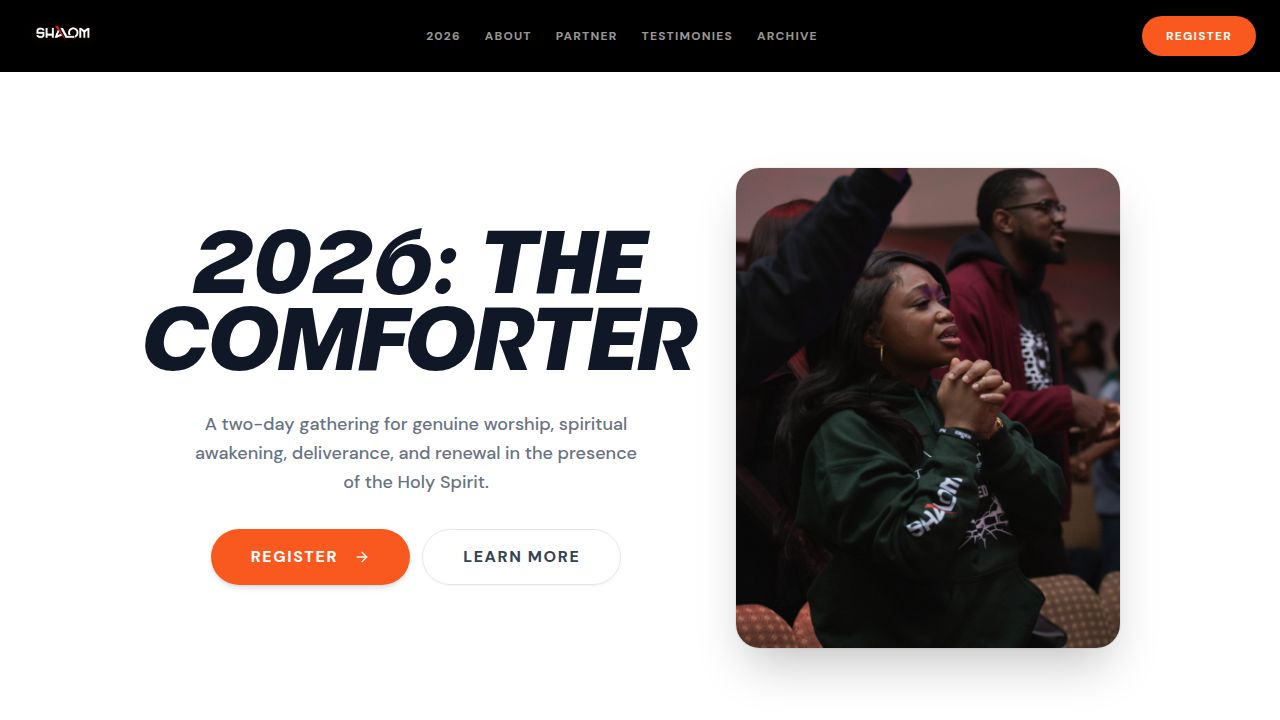
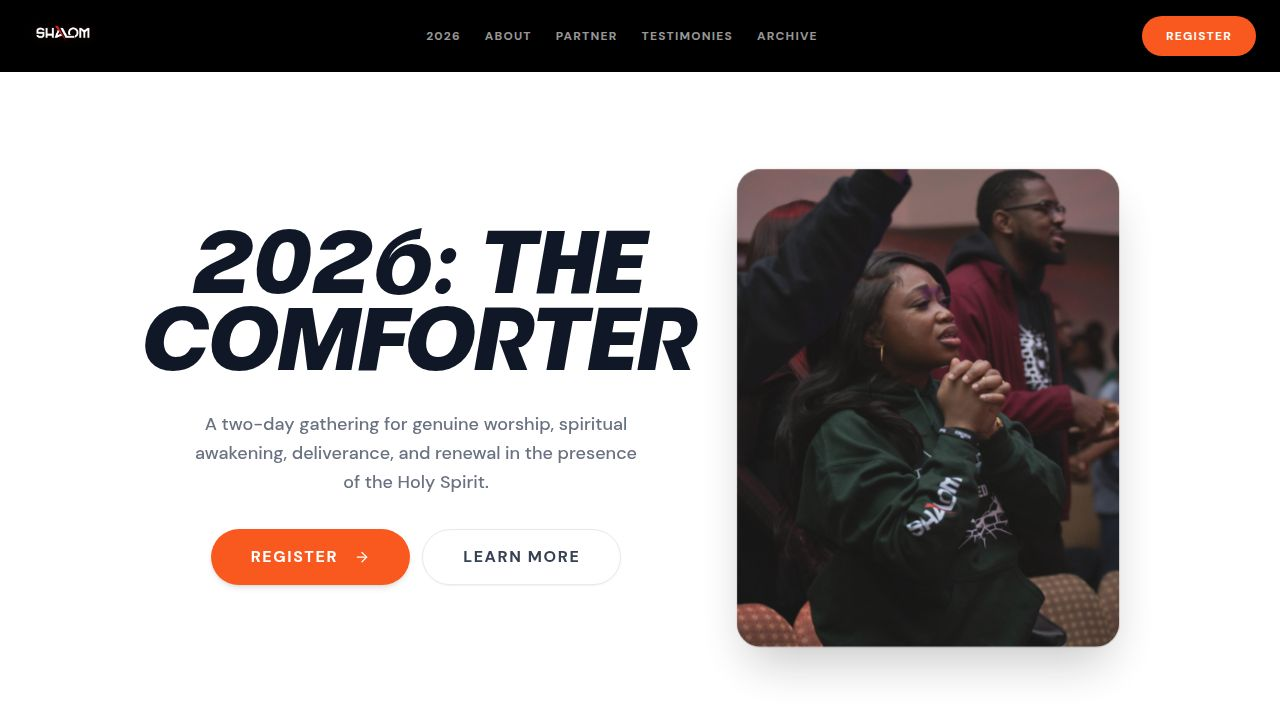
Standardize website header across all pages for a consistent user experience
Replaces custom header implementations with a shared `SiteHeader` component across multiple pages, including Home, About, Archive, ConferenceYear, Partner, Register, and Testimonies.

Replit-Commit-Author: Agent
Replit-Commit-Session-Id: 447dcef4-a52e-41ba-a06d-2a0f9991cb66
Replit-Commit-Checkpoint-Type: full_checkpoint
Replit-Commit-Event-Id: 1f464112-f09e-4851-9963-1d8e7e89b98e
Replit-Commit-Screenshot-Url: https://storage.googleapis.com/screenshot-production-us-central1/bf1a559b-73e7-45ad-958f-b963b2bfdcad/447dcef4-a52e-41ba-a06d-2a0f9991cb66/ZjSoagh
Replit-Helium-Checkpoint-Created: true

diff --git a/artifacts/shalom/src/components/SiteHeader.tsx b/artifacts/shalom/src/components/SiteHeader.tsx
@@ -1,0 +1,89 @@
+import { useState } from "react";
+import { Link, useLocation } from "wouter";
+import { motion, AnimatePresence } from "framer-motion";
+import { Menu, X } from "lucide-react";
+import { Button } from "@/components/ui/button";
+import shalomLogo from "@assets/logo_1778697155106.png";
+
+const NAV_LINKS = [
+  { label: "2026", href: "/2026" },
+  { label: "About", href: "/about" },
+  { label: "Partner", href: "/partner" },
+  { label: "Testimonies", href: "/testimonies" },
+  { label: "Archive", href: "/archive" },
+];
+
+export default function SiteHeader() {
+  const [menuOpen, setMenuOpen] = useState(false);
+  const [location] = useLocation();
+
+  return (
+    <header className="sticky top-0 z-50 bg-black">
+      <nav className="container mx-auto flex max-w-7xl items-center justify-between px-4 py-4 sm:px-6">
+        <Link href="/" className="flex items-center gap-3">
+          <img src={shalomLogo} alt="SHALOM" className="h-9 w-auto object-contain" />
+        </Link>
+
+        {/* Desktop nav */}
+        <div className="hidden sm:flex items-center gap-6 text-xs font-bold uppercase tracking-widest">
+          {NAV_LINKS.map((l) => (
+            <Link
+              key={l.href}
+              href={l.href}
+              className={`transition-colors ${location === l.href ? "text-primary" : "text-white/60 hover:text-primary"}`}
+            >
+              {l.label}
+            </Link>
+          ))}
+        </div>
+
+        <div className="flex items-center gap-3">
+          <Button
+            asChild
+            size="sm"
+            className="rounded-full bg-primary hover:bg-primary/90 text-white font-bold uppercase tracking-widest border-none px-6 h-10"
+          >
+            <Link href="/register">Register</Link>
+          </Button>
+
+          {/* Hamburger — mobile only */}
+          <button
+            className="sm:hidden flex items-center justify-center h-10 w-10 rounded-full text-white hover:bg-white/10 transition-colors"
+            onClick={() => setMenuOpen((v) => !v)}
+            aria-label="Toggle menu"
+          >
+            {menuOpen ? <X className="h-5 w-5" /> : <Menu className="h-5 w-5" />}
+          </button>
+        </div>
+      </nav>
+
+      {/* Mobile dropdown */}
+      <AnimatePresence>
+        {menuOpen && (
+          <motion.div
+            initial={{ opacity: 0, height: 0 }}
+            animate={{ opacity: 1, height: "auto" }}
+            exit={{ opacity: 0, height: 0 }}
+            transition={{ duration: 0.2 }}
+            className="sm:hidden overflow-hidden border-t border-white/10"
+          >
+            <div className="flex flex-col px-4 py-3 gap-1">
+              {NAV_LINKS.map((l) => (
+                <Link
+                  key={l.href}
+                  href={l.href}
+                  onClick={() => setMenuOpen(false)}
+                  className={`text-sm font-bold uppercase tracking-widest py-3 border-b border-white/5 last:border-0 transition-colors ${
+                    location === l.href ? "text-primary" : "text-white/60 hover:text-primary"
+                  }`}
+                >
+                  {l.label}
+                </Link>
+              ))}
+            </div>
+          </motion.div>
+        )}
+      </AnimatePresence>
+    </header>
+  );
+}

diff --git a/artifacts/shalom/src/pages/home.tsx b/artifacts/shalom/src/pages/home.tsx
@@ -1,19 +1,11 @@
-import { useState } from "react";
-import { Link, useLocation } from "wouter";
-import shalomLogo from "@assets/logo_1778697155106.png";
-import { motion, AnimatePresence } from "framer-motion";
+import { Link } from "wouter";
+import { motion } from "framer-motion";
 import { Button } from "@/components/ui/button";
-import { ArrowRight, Mail, MessageSquare, Menu, X } from "lucide-react";
+import { ArrowRight, Mail, MessageSquare } from "lucide-react";
 import { SiInstagram } from "react-icons/si";
 import { currentConference } from "@/data/conferences";
-
-const NAV_LINKS = [
-  { label: "2026", href: "/2026" },
-  { label: "About", href: "/about" },
-  { label: "Partner", href: "/partner" },
-  { label: "Testimonies", href: "/testimonies" },
-  { label: "Archive", href: "/archive" },
-];
+import SiteHeader from "@/components/SiteHeader";
+import shalomLogo from "@assets/logo_1778697155106.png";
 
 const FadeIn = ({ children, delay = 0, className = "" }: { children: React.ReactNode; delay?: number; className?: string }) => (
   <motion.div
@@ -28,66 +20,9 @@ const FadeIn = ({ children, delay = 0, className = "" }: { children: React.React
 );
 
 export default function Home() {
-  const [menuOpen, setMenuOpen] = useState(false);
-
   return (
     <div className="min-h-screen text-gray-900 bg-white">
-
-      {/* STICKY HEADER */}
-      <header className="sticky top-0 z-50 bg-black">
-        <nav className="container mx-auto flex max-w-7xl items-center justify-between px-4 py-4 sm:px-6">
-          <Link href="/" className="flex items-center gap-3">
-            <img src={shalomLogo} alt="SHALOM" className="h-9 w-auto object-contain" />
-          </Link>
-
-          {/* Desktop nav */}
-          <div className="hidden sm:flex items-center gap-6 text-xs font-bold uppercase tracking-widest text-white/60">
-            {NAV_LINKS.map((l) => (
-              <Link key={l.href} href={l.href} className="hover:text-primary transition-colors">{l.label}</Link>
-            ))}
-          </div>
-
-          <div className="flex items-center gap-3">
-            <Button asChild size="sm" className="rounded-full bg-primary hover:bg-primary/90 text-white font-bold uppercase tracking-widest border-none px-6 h-10">
-              <Link href="/register">Register</Link>
-            </Button>
-            {/* Hamburger — mobile only */}
-            <button
-              className="sm:hidden flex items-center justify-center h-10 w-10 rounded-full text-white hover:bg-white/10 transition-colors"
-              onClick={() => setMenuOpen((v) => !v)}
-              aria-label="Toggle menu"
-            >
-              {menuOpen ? <X className="h-5 w-5" /> : <Menu className="h-5 w-5" />}
-            </button>
-          </div>
-        </nav>
-
-        {/* Mobile dropdown */}
-        <AnimatePresence>
-          {menuOpen && (
-            <motion.div
-              initial={{ opacity: 0, height: 0 }}
-              animate={{ opacity: 1, height: "auto" }}
-              exit={{ opacity: 0, height: 0 }}
-              transition={{ duration: 0.2 }}
-              className="sm:hidden overflow-hidden border-t border-white/10"
-            >
-              <div className="flex flex-col px-4 py-3 gap-1">
-                {NAV_LINKS.map((l) => (
-                  <Link
-                    key={l.href}
-                    href={l.href}
-                    onClick={() => setMenuOpen(false)}
-                    className="text-sm font-bold uppercase tracking-widest text-white/60 hover:text-primary py-3 border-b border-white/5 last:border-0 transition-colors"
-                  >
-                    {l.label}
-                  </Link>
-                ))}
-              </div>
-            </motion.div>
-          )}
-        </AnimatePresence>
-      </header>
+      <SiteHeader />
 
       {/* HERO — centered text + image pair */}
       <section className="bg-white px-6 py-16 sm:px-6 lg:py-24">

diff --git a/artifacts/shalom/src/pages/about.tsx b/artifacts/shalom/src/pages/about.tsx
@@ -1,33 +1,13 @@
-import { Link } from "wouter";
-import shalomLogo from "@assets/logo_1778697155106.png";
 import { ArrowRight, Flame, Heart, Sparkles } from "lucide-react";
 import { Button } from "@/components/ui/button";
+import { Link } from "wouter";
 import { currentConference } from "@/data/conferences";
+import SiteHeader from "@/components/SiteHeader";
 
 export default function About() {
   return (
     <div className="min-h-screen bg-background text-foreground">
-      <header className="border-b border-white/10 px-4 py-5 sm:px-6">
-        <nav className="container mx-auto flex max-w-7xl flex-col items-center justify-center gap-4 sm:flex-row sm:justify-between">
-          <Link href="/" className="flex items-center gap-3">
-            <img src={shalomLogo} alt="SHALOM" className="h-10 w-auto object-contain" />
-          </Link>
-          <div className="flex flex-wrap items-center justify-center gap-x-4 gap-y-2 text-xs font-medium uppercase tracking-widest text-muted-foreground sm:gap-5 sm:text-sm">
-            <Link href="/2026" className="hover:text-primary">
-              2026
-            </Link>
-            <Link href="/about" className="text-primary">
-              About
-            </Link>
-            <Link href="/partner" className="hover:text-primary">
-              Partner
-            </Link>
-            <Link href="/archive" className="hover:text-primary">
-              Archive
-            </Link>
-          </div>
-        </nav>
-      </header>
+      <SiteHeader />
 
       <main>
         <section className="relative overflow-hidden px-4 py-20 text-center sm:px-6 sm:py-24 sm:text-left">

diff --git a/artifacts/shalom/src/pages/conference-year.tsx b/artifacts/shalom/src/pages/conference-year.tsx
@@ -1,10 +1,11 @@
 import { Link } from "wouter";
-import shalomLogo from "@assets/logo_1778697155106.png";
 import { ArrowRight, Calendar, Mail, MapPin, MessageSquare, Sparkles, Users, Zap } from "lucide-react";
 import { SiInstagram } from "react-icons/si";
 import { Button } from "@/components/ui/button";
 import { currentConference, getConferenceByYear } from "@/data/conferences";
 import NotFound from "@/pages/not-found";
+import SiteHeader from "@/components/SiteHeader";
+import shalomLogo from "@assets/logo_1778697155106.png";
 
 type ConferenceYearProps = {
   year?: string;
@@ -21,27 +22,7 @@ export default function ConferenceYear({ year = currentConference.year }: Confer
 
   return (
     <div className="min-h-screen bg-background text-foreground">
-      <header className="absolute left-0 right-0 top-0 z-20 px-4 py-5 sm:px-6">
-        <nav className="container mx-auto flex max-w-7xl flex-col items-center justify-center gap-4 sm:flex-row sm:justify-between">
-          <Link href="/" className="flex items-center gap-3">
-            <img src={shalomLogo} alt="SHALOM" className="h-10 w-auto object-contain" />
-          </Link>
-          <div className="flex flex-wrap items-center justify-center gap-x-4 gap-y-2 text-xs font-medium uppercase tracking-widest text-white/70 sm:gap-5 sm:text-sm">
-            <Link href="/2026" className={isCurrent ? "text-primary" : "hover:text-primary"}>
-              2026
-            </Link>
-            <Link href="/about" className="hover:text-primary">
-              About
-            </Link>
-            <Link href="/partner" className="hover:text-primary">
-              Partner
-            </Link>
-            <Link href="/archive" className="hover:text-primary">
-              Archive
-            </Link>
-          </div>
-        </nav>
-      </header>
+      <SiteHeader />
 
       <main>
         {conference.flyer ? (

diff --git a/artifacts/shalom/src/pages/archive.tsx b/artifacts/shalom/src/pages/archive.tsx
@@ -1,33 +1,13 @@
 import { Link } from "wouter";
-import shalomLogo from "@assets/logo_1778697155106.png";
 import { ArrowRight, Calendar, MapPin } from "lucide-react";
 import { archivedConferences } from "@/data/conferences";
 import { Button } from "@/components/ui/button";
+import SiteHeader from "@/components/SiteHeader";
 
 export default function Archive() {
   return (
     <div className="min-h-screen bg-background text-foreground">
-      <header className="border-b border-white/10 px-4 py-5 sm:px-6">
-        <nav className="container mx-auto flex max-w-7xl flex-col items-center justify-center gap-4 sm:flex-row sm:justify-between">
-          <Link href="/" className="flex items-center gap-3">
-            <img src={shalomLogo} alt="SHALOM" className="h-10 w-auto object-contain" />
-          </Link>
-          <div className="flex flex-wrap items-center justify-center gap-x-4 gap-y-2 text-xs font-medium uppercase tracking-widest text-muted-foreground sm:gap-5 sm:text-sm">
-            <Link href="/2026" className="hover:text-primary">
-              2026
-            </Link>
-            <Link href="/about" className="hover:text-primary">
-              About
-            </Link>
-            <Link href="/partner" className="hover:text-primary">
-              Partner
-            </Link>
-            <Link href="/archive" className="text-primary">
-              Archive
-            </Link>
-          </div>
-        </nav>
-      </header>
+      <SiteHeader />
 
       <main>
         <section className="px-4 py-20 sm:px-6 sm:py-24">

diff --git a/artifacts/shalom/src/pages/partner.tsx b/artifacts/shalom/src/pages/partner.tsx
@@ -1,8 +1,8 @@
 import { Link } from "wouter";
-import shalomLogo from "@assets/logo_1778697155106.png";
 import { ArrowRight, HandHeart, HeartHandshake, Megaphone, ShieldCheck } from "lucide-react";
 import { Button } from "@/components/ui/button";
 import { currentConference } from "@/data/conferences";
+import SiteHeader from "@/components/SiteHeader";
 
 const partnerPaths = [
   {
@@ -25,27 +25,7 @@ const partnerPaths = [
 export default function Partner() {
   return (
     <div className="min-h-screen bg-background text-foreground">
-      <header className="border-b border-white/10 px-4 py-5 sm:px-6">
-        <nav className="container mx-auto flex max-w-7xl flex-col items-center justify-center gap-4 sm:flex-row sm:justify-between">
-          <Link href="/" className="flex items-center gap-3">
-            <img src={shalomLogo} alt="SHALOM" className="h-10 w-auto object-contain" />
-          </Link>
-          <div className="flex flex-wrap items-center justify-center gap-x-4 gap-y-2 text-xs font-medium uppercase tracking-widest text-muted-foreground sm:gap-5 sm:text-sm">
-            <Link href="/2026" className="hover:text-primary">
-              2026
-            </Link>
-            <Link href="/about" className="hover:text-primary">
-              About
-            </Link>
-            <Link href="/partner" className="text-primary">
-              Partner
-            </Link>
-            <Link href="/archive" className="hover:text-primary">
-              Archive
-            </Link>
-          </div>
-        </nav>
-      </header>
+      <SiteHeader />
 
       <main>
         <section className="relative overflow-hidden px-4 py-20 text-center sm:px-6 sm:py-24 sm:text-left">

diff --git a/artifacts/shalom/src/pages/testimonies.tsx b/artifacts/shalom/src/pages/testimonies.tsx
@@ -6,8 +6,9 @@ import { Link } from "wouter";
 import { motion } from "framer-motion";
 import { ArrowLeft, ArrowRight, CheckCircle2, MessageSquare } from "lucide-react";
 import { useCreateTestimony } from "@workspace/api-client-react";
-import shalomLogo from "@assets/logo_1778697155106.png";
 import { Button } from "@/components/ui/button";
+import SiteHeader from "@/components/SiteHeader";
+import shalomLogo from "@assets/logo_1778697155106.png";
 import {
   Form,
   FormControl,
@@ -121,17 +122,7 @@ export default function Testimonies() {
         <div className="absolute bottom-0 left-0 -ml-32 -mb-32 w-96 h-96 rounded-full bg-secondary/10 blur-[100px]" />
       </div>
 
-      <header className="relative z-20 px-4 py-6 sm:px-6">
-        <div className="container mx-auto max-w-7xl flex items-center">
-          <Link
-            href="/"
-            className="group flex items-center gap-2 text-white/50 hover:text-white transition-colors font-bold uppercase tracking-widest text-sm"
-          >
-            <ArrowLeft className="h-5 w-5 group-hover:-translate-x-1 transition-transform" />
-            Back
-          </Link>
-        </div>
-      </header>
+      <SiteHeader />
 
       <main className="container relative z-10 mx-auto max-w-2xl px-4 mt-8">
         <div className="text-center mb-12">

diff --git a/artifacts/shalom/src/pages/register.tsx b/artifacts/shalom/src/pages/register.tsx
@@ -8,6 +8,7 @@ import { ArrowLeft, ArrowRight, CheckCircle2, Calendar, MapPin, Sparkles } from 
 import { useCreateRegistration } from "@workspace/api-client-react";
 import shalomLogo from "@assets/logo_1778697155106.png";
 import { Button } from "@/components/ui/button";
+import SiteHeader from "@/components/SiteHeader";
 import {
   Form,
   FormControl,
@@ -133,18 +134,7 @@ export default function Register() {
         <div className="absolute bottom-0 left-0 -ml-32 -mb-32 w-96 h-96 rounded-full bg-secondary/10 blur-[100px]" />
       </div>
 
-      <header className="relative z-20 px-4 py-6 sm:px-6">
-        <div className="container mx-auto max-w-7xl flex items-center">
-          <Link
-            href="/"
-            className="group flex items-center gap-2 text-white/50 hover:text-white transition-colors font-bold uppercase tracking-widest text-sm"
-            data-testid="link-back-home"
-          >
-            <ArrowLeft className="h-5 w-5 group-hover:-translate-x-1 transition-transform" />
-            Back
-          </Link>
-        </div>
-      </header>
+      <SiteHeader />
 
       <main className="container relative z-10 mx-auto max-w-2xl px-4 mt-8">
         <div className="text-center mb-12">